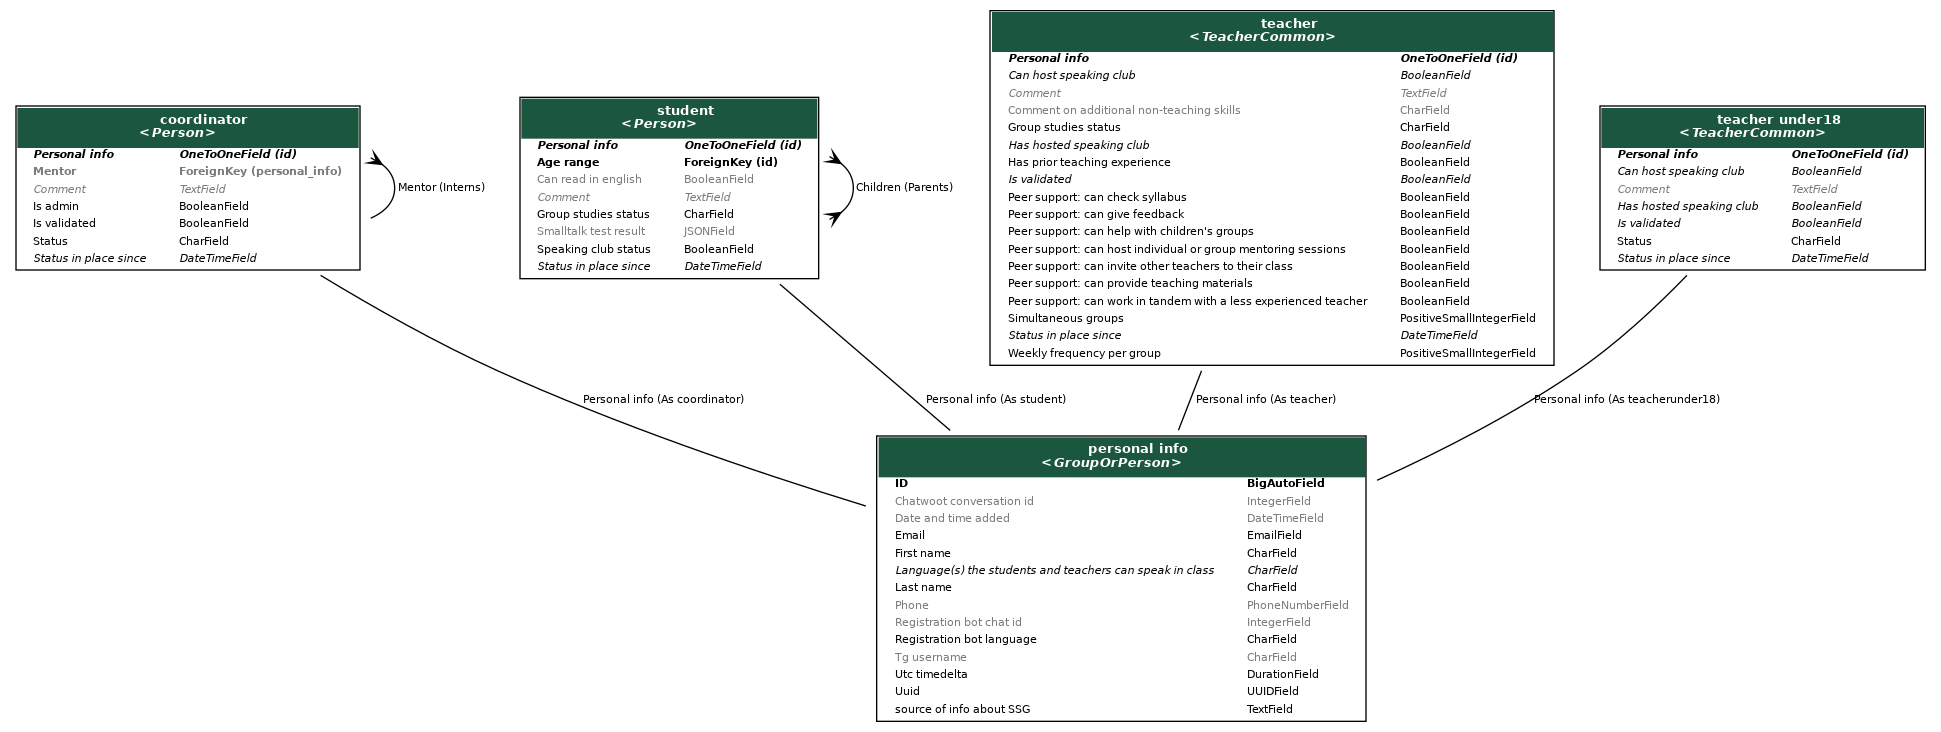
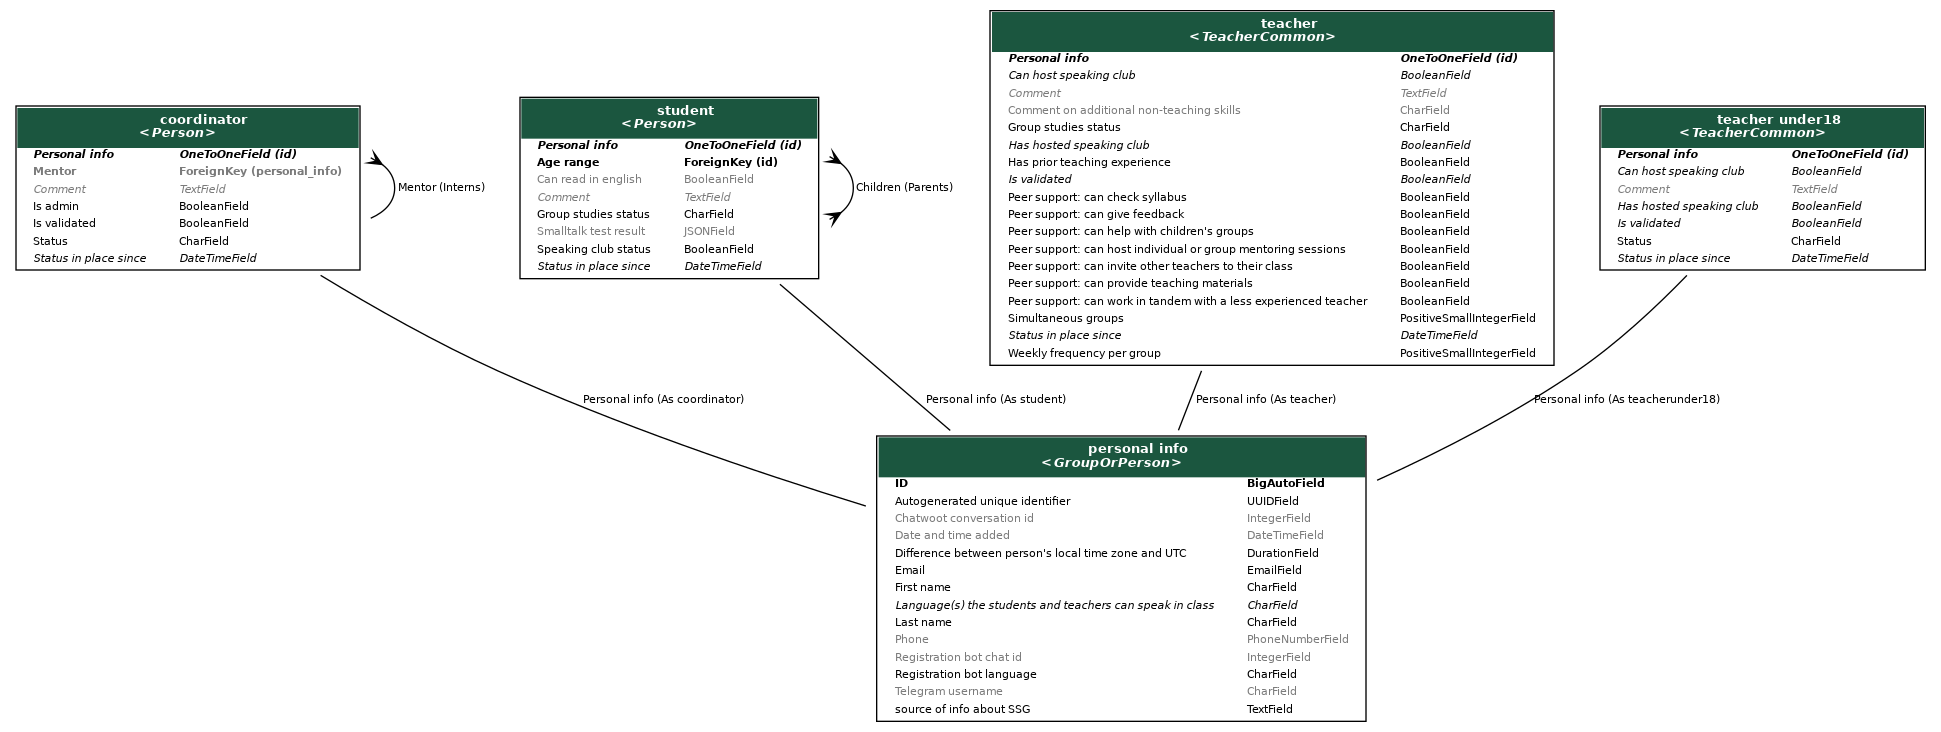
`PersonalInfo`: add verbose names to some fields

Changed region(s): [[0.4637, 0.6612, 0.6801, 0.9617], [0.6491, 0.8115, 0.6801, 0.9617]]

diff --git a/api/migrations/0001_initial.py b/api/migrations/0001_initial.py
@@ -1,4 +1,4 @@
-# Generated by Django 4.2 on 2023-04-07 22:28
+# Generated by Django 4.2 on 2023-04-08 10:02
 
 import datetime
 from django.db import migrations, models
@@ -326,11 +326,21 @@ class Migration(migrations.Migration):
                         verbose_name="Language(s) the students and teachers can speak in class",
                     ),
                 ),
-                ("uuid", models.UUIDField(default=uuid.uuid4, editable=False)),
+                (
+                    "uuid",
+                    models.UUIDField(
+                        default=uuid.uuid4,
+                        editable=False,
+                        verbose_name="autogenerated unique identifier",
+                    ),
+                ),
                 ("date_and_time_added", models.DateTimeField(auto_now_add=True)),
                 ("first_name", models.CharField(max_length=100)),
                 ("last_name", models.CharField(max_length=100)),
-                ("tg_username", models.CharField(blank=True, max_length=100)),
+                (
+                    "tg_username",
+                    models.CharField(blank=True, max_length=100, verbose_name="Telegram username"),
+                ),
                 ("email", models.EmailField(max_length=254)),
                 (
                     "phone",
@@ -338,7 +348,13 @@ class Migration(migrations.Migration):
                         blank=True, max_length=128, null=True, region=None
                     ),
                 ),
-                ("utc_timedelta", models.DurationField(default=datetime.timedelta(0))),
+                (
+                    "utc_timedelta",
+                    models.DurationField(
+                        default=datetime.timedelta(0),
+                        verbose_name="Difference between person's local time zone and UTC",
+                    ),
+                ),
                 (
                     "information_source",
                     models.TextField(

diff --git a/api/models/people.py b/api/models/people.py
@@ -23,7 +23,6 @@ from api.models.languages_levels import LanguageAndLevel
 from api.models.non_teaching_help import NonTeachingHelp
 
 
-# PEOPLE
 # One person can perform several roles.  Therefore, the logic proposed is as follows: first,
 # a PersonalInfo is created, then e.g. a Coordinator is created, linking to that PersonalInfo.
 # Then, if the same person assumes another role, e.g. a Teacher is created, linking to the
@@ -38,16 +37,21 @@ class PersonalInfo(GroupOrPerson):
     # even if one person combines several roles.  The autoincrement simple numeric ID can be used
     # for internal communication ("John 132"), while uuid can be used e.g. for hyperlinks
     # to prevent IDOR
-    uuid = models.UUIDField(default=uuid.uuid4, editable=False)
+    uuid = models.UUIDField(
+        verbose_name="autogenerated unique identifier", default=uuid.uuid4, editable=False
+    )
     # Automatically save date and time when the Person was created.
     date_and_time_added = models.DateTimeField(auto_now_add=True)
     first_name = models.CharField(max_length=100)  # can include middle name if a person wishes so
     last_name = models.CharField(max_length=100)
     # Telegram's limit is 32, but this might change
-    tg_username = models.CharField(max_length=100, blank=True)
+    tg_username = models.CharField(verbose_name="Telegram username", max_length=100, blank=True)
     email = models.EmailField()
     phone = modelfields.PhoneNumberField(null=True, blank=True)
-    utc_timedelta = models.DurationField(default=timedelta(hours=0))
+    utc_timedelta = models.DurationField(
+        verbose_name="Difference between person's local time zone and UTC",
+        default=timedelta(hours=0),
+    )
 
     information_source = models.TextField(
         verbose_name="source of info about SSG",
